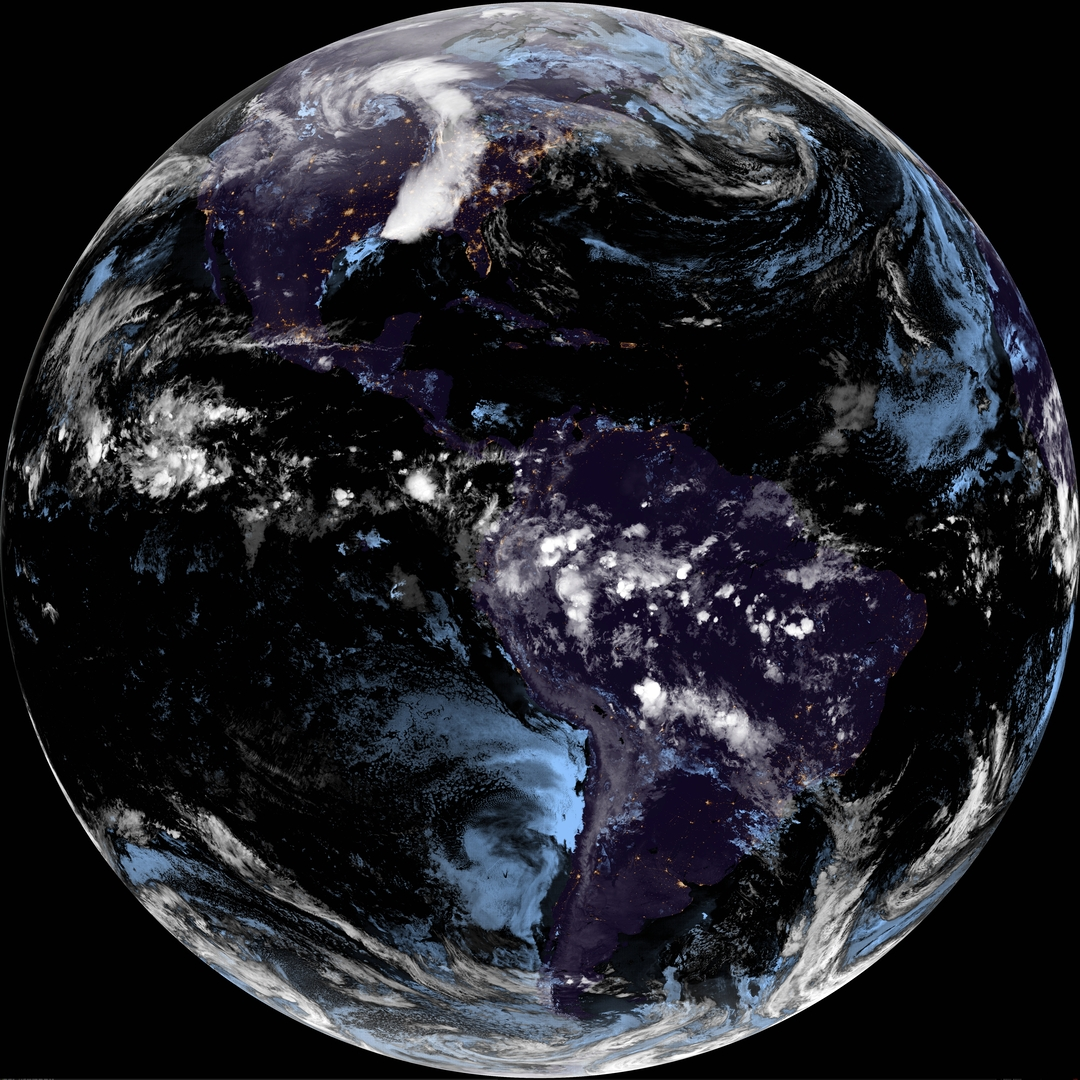
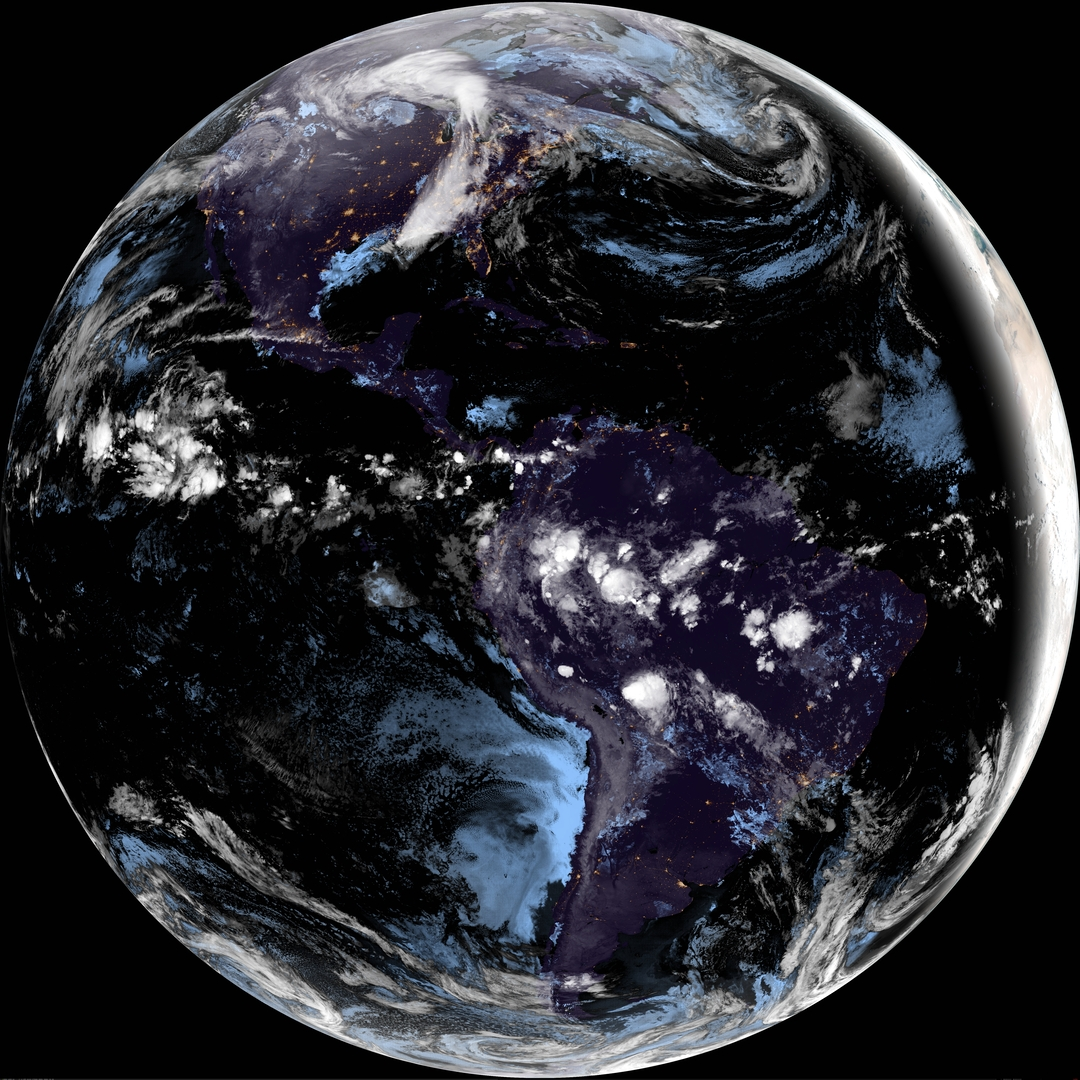
update images

diff --git a/index.html b/index.html
@@ -53,7 +53,7 @@
       <a class="top-bar-link" href="https://github.com/ungoldman/satellites">🐈 github</a>
     </div>
   </nav>
-  <p class="last-updated">Last updated: <date>2022-04-14 @ 04:07 UTC</date>.<br>Updates every 4 hours.</p>
+  <p class="last-updated">Last updated: <date>2022-04-14 @ 08:12 UTC</date>.<br>Updates every 4 hours.</p>
   <div class="sats">
     <img title="GOES-17 Full Disk GeoColor" src="./images/goes-17-latest.jpg">
     <img title="GOES-16 Full Disk GeoColor" src="./images/goes-16-latest.jpg">
